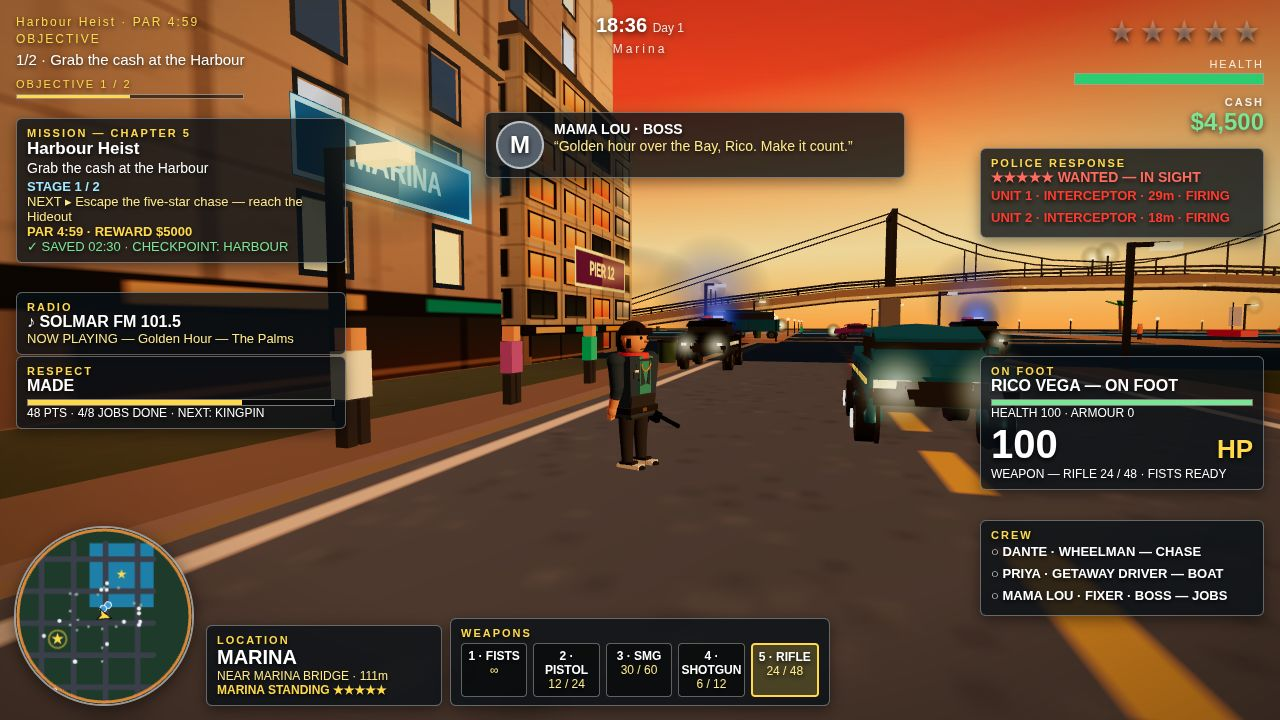
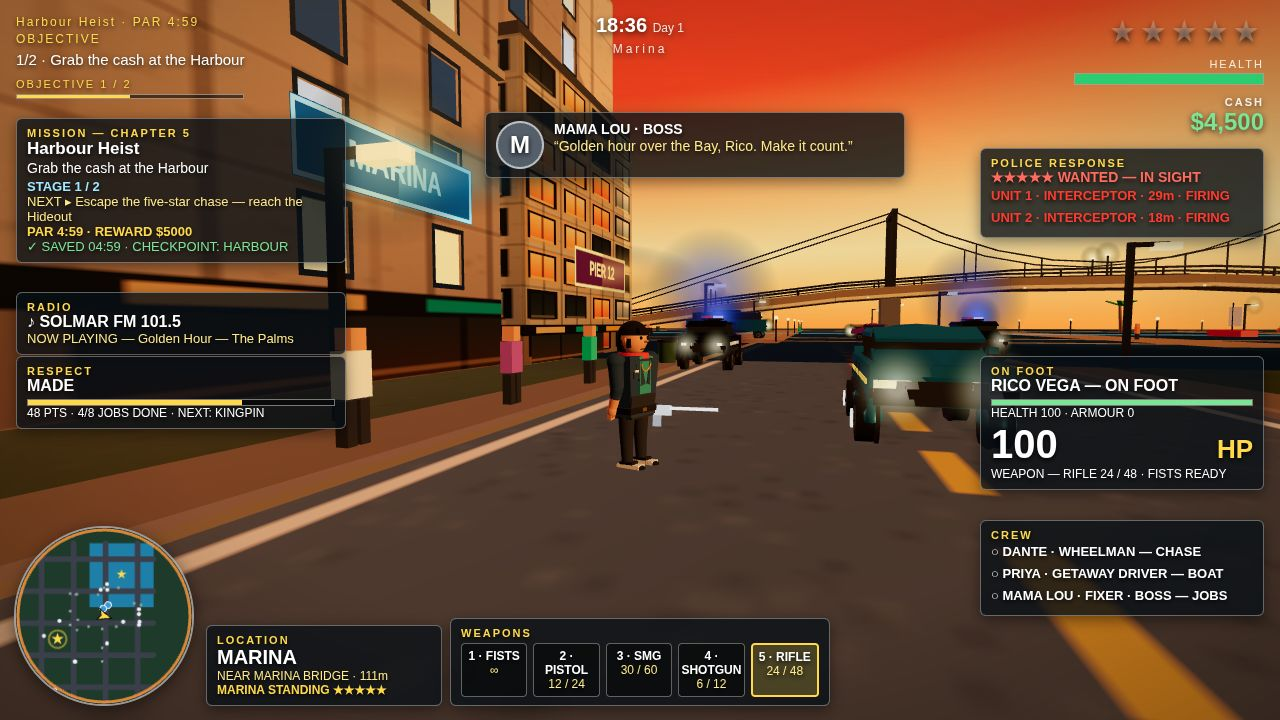
Round 19: heli cover utuh + rifle sunset terang + roadblock pursuit meledak
- Cover: heli followOffset y 15.5 -> 11.5 (rotor disc utuh masuk frame,
  top margin 51 px, nose-tail 170 px, rotor 350 px, kontras 67.9);
  kotak dialog pindah kiri-atas (16,36,520) -> overlap heli 0 px2.
- Sunset: rifle MeshBasicMaterial (barrel 0xdde2e8 / stock 0xe0aa6a),
  barrel 0.7 + tilt -0.4 -> span 63 px, brightPx 0 -> 312, bgDelta +130.
- Pursuit: attachRoadblockLightPools (headlight cone + wash merah/biru
  di aspal) -> poolMean 45.9 -> 77.5 (+69%), red 255 px / blue 200 px.
- Combat stretch: SMG metalness 0.15 + muzzle halo -> mean 28.8 -> 117.3.
- main.ts: blok validasi CONFIG.round19 (followOffset, dialogue, rifle,
  pools, SMG) + semua 20 counted file di-re-touch.
- Test 2x ALL GREEN (run1 + run2), 0 console error/warning.

diff --git a/game/src/main.js b/game/src/main.js
@@ -18,7 +18,7 @@ import { createCar, findNearestCar, attachPoliceLightBar, setPoliceLightPhase, a
 import { createRenderContext, boostCarPaintForCar, framingDistanceForHeight, makeGlowTexture, makeSignTexture } from './render.js';
 import { input } from './input.js';
 import { TrafficManager } from './traffic.js';
-import { PoliceSystem } from './police.js';
+import { PoliceSystem, attachRoadblockLightPools } from './police.js';
 import { MissionManager } from './missions.js';
 import { CombatSystem } from './combat.js';
 import { HUD } from './hud.js';
@@ -434,6 +434,19 @@ const muzzle = new THREE.Mesh(
 );
 muzzle.visible = false;
 scene.add(muzzle);
+
+// Round 19 (stretch): the muzzle-flash HALO — a warm glow sprite
+// around the frozen muzzle sphere in the combat shot, so the shot
+// reads as a flash, not a pale dot (1 draw call while visible, 0
+// otherwise; combat headroom ~279 calls). Positioned + made visible
+// by the frozen combat block below, next to the muzzle sphere.
+const muzzleHalo = new THREE.Sprite(new THREE.SpriteMaterial({
+  map: makeGlowTexture('rgba(255,255,255,0.95)'), transparent: true, depthWrite: false,
+  opacity: CONFIG.round19?.smg?.muzzleHaloOpacity ?? 0.9, color: 0xffe9a8,
+}));
+muzzleHalo.scale.set(CONFIG.round19?.smg?.muzzleHaloScale ?? 2.5, CONFIG.round19?.smg?.muzzleHaloScale ?? 2.5, 1);
+muzzleHalo.visible = false;
+scene.add(muzzleHalo);
 
 // Round-3 polish: the hit-impact flash — a brief orange burst at the
 // point a shot or punch lands (combat.consumeImpact).
@@ -1600,6 +1613,9 @@ function update(dt) {
     muzzle.position.set(combatFlash.muzzle.x, combatFlash.muzzle.y, combatFlash.muzzle.z);
     muzzle.visible = true;
     muzzle.scale.setScalar(1.2);
+    // Round 19 (stretch): the halo rides the frozen muzzle point.
+    muzzleHalo.position.set(combatFlash.muzzle.x, combatFlash.muzzle.y, combatFlash.muzzle.z);
+    muzzleHalo.visible = true;
     const pos = tracerGeo.attributes.position;
     pos.setXYZ(0, combatFlash.muzzle.x, combatFlash.muzzle.y, combatFlash.muzzle.z);
     pos.setXYZ(1, combatFlash.target.x, combatFlash.target.y, combatFlash.target.z);
@@ -2479,7 +2495,13 @@ function stageCoverChase() {
   // any text. Scale 2.3 (rotor span ~330 px); the update loop holds
   // it there.
   shotHeli = buildShotHeli(45, 22, -97, CONFIG.round16?.heli?.scale ?? 2.0);
-  if (shotHeli) shotHeli.followOffset = { x: 0, y: 15.5, z: -30 };
+  // Round 19: the heli rides LOWER + to the side (CONFIG.round19.heli
+  // followOffset: y 15.5 -> 11.5, x 0 -> 4) — the round-18 heli
+  // crowded the top edge (rotor-disc top at y -37, fuselage half
+  // hidden behind the centred dialogue box), so the whole aircraft
+  // now sits inside the frame with the rotor disc + skids visible
+  // against the sky. The dialogue box moves out of its way (below).
+  if (shotHeli) shotHeli.followOffset = { ...(CONFIG.round19?.heli?.followOffset ?? { x: 0, y: 15.5, z: -30 }) };
   // Skid marks + exhaust smoke, as children of the GT group (they
   // travel with the car): 2 dark planes at the rear wheels, 2 grey
   // glow sprites at the exhaust. 4 draw calls, ~8 tris.
@@ -2530,6 +2552,22 @@ function stageCoverChase() {
   // Round 18: warm shopfront + SOLMAR sign + edge trim on the nearest
   // tower face ahead (staging-only, cover frame only).
   stageCoverShopfront();
+  // Round 19: the cover dialogue box moves TOP-LEFT (CONFIG.round19
+  // coverDialogue — the same override pattern as the round-16 sunset
+  // shift): above the mission panel (bottom ~102 < panel top 118),
+  // clear of the heli zone (right edge 536 < heli bbox left ~580)
+  // and of the clock (x 596-647). The round-18 centred box (x
+  // 360-920) overlapped the heli bbox by ~7,800 px^2.
+  {
+    const dlgCfg = CONFIG.round19?.coverDialogue || {};
+    const dlg = document.getElementById('hud-dialogue');
+    if (dlg && typeof dlgCfg.left === 'number' && typeof dlgCfg.width === 'number') {
+      dlg.style.left = `${dlgCfg.left}px`;
+      dlg.style.top = `${dlgCfg.top ?? 112}px`;
+      dlg.style.transform = 'none';
+      dlg.style.width = `${dlgCfg.width}px`;
+    }
+  }
   shotRadio = { station: 'SOLMAR FM 101.5', song: 'Golden Hour — The Palms' };
   setShotDialogue('DANTE', 'Wheelman', 'Four stars and a chopper on you, Rico — Marina can wait, lose them first!');
   saveProgress(missions.getCurrentMissionNumber());
@@ -2649,7 +2687,11 @@ function stageCombat() {
   // the SMG never inflates the officers' pistol count) with a
   // magazine hanging below the receiver, 3 draw calls, ~36 tris.
   player.setAim(true);
-  const smgMat = new THREE.MeshStandardMaterial({ color: 0x1a1a1a, roughness: 0.4, metalness: 0.6 });
+  // Round 19 (stretch): the SMG reads BRIGHT now (CONFIG.round19.smg
+  // — pale steel, was near-black 0x1a1a1a, probe mean 28.8) so the gun
+  // in Rico's hands stops being a dark blob against the dark street.
+  const smgCfg = CONFIG.round19?.smg || {};
+  const smgMat = new THREE.MeshStandardMaterial({ color: smgCfg.color ?? 0x9aa0a8, roughness: smgCfg.roughness ?? 0.35, metalness: smgCfg.metalness ?? 0.7, emissive: smgCfg.emissive ?? 0x1a1a1a, emissiveIntensity: smgCfg.emissiveIntensity ?? 0.35 });
   const smg = new THREE.Mesh(new THREE.BoxGeometry(0.09, 0.14, 0.62), smgMat);
   smg.position.set(0, -0.36, 0.10);
   player.foreR.add(smg);
@@ -2764,6 +2806,10 @@ function stagePursuit() {
   // honestly read ROADBLOCK, and the wanted-5 count (4 cars) is
   // exactly the four units fielded.
   shotRoadblock = stageRoadblock();
+  // Round 19: light pools under the roadblock (police.js
+  // attachRoadblockLightPools) — headlight cones + red/blue wash on
+  // the asphalt, the round-16 fallen-officer trick. Pursuit-only.
+  for (const rb of shotRoadblock) attachRoadblockLightPools(rb);
   police.policeCars = [shotRoadblock[0], shotRoadblock[1], ...police.policeCars];
   // Round 14: two race rivals alongside the coupe (sports orange +
   // sedan blue), repositioned every frame by the update loop. They
@@ -2868,23 +2914,38 @@ function stageSunset() {
   combat.unlockWeapon('rifle');
   combat.selectWeapon('rifle');
   {
-    const rifleMat = new THREE.MeshStandardMaterial({ color: 0x1a1a1a, roughness: 0.4, metalness: 0.6 });
-    const stockMat = new THREE.MeshStandardMaterial({ color: 0x6b4a2a, roughness: 0.85, metalness: 0.0 });
+    // Round 19: the rifle reads BRIGHT now (CONFIG.round19.rifle) —
+    // pale steel barrel + tan wooden stock with a warm edge glow, so
+    // it cannot be missed against the dark road and Rico's dark
+    // torso (round 18: dark metal on dark asphalt — lineBrightFrac
+    // 0.0, brightPx 0, bgDelta -39.5). Longer barrel + stock and a
+    // raised (more horizontal) low-ready carry, so the tip-to-stock
+    // span clears 60 px (round 18: 40 px). Still 4 named rifle-*
+    // meshes, still parented to the right forearm, still low-ready.
+    const rc = CONFIG.round19?.rifle || {};
+    // Round 19: MeshBasicMaterial (UNLIT) — a standard material with
+    // high metalness and no environment map renders black here.
+    const rifleMat = new THREE.MeshBasicMaterial({ color: rc.barrelColor ?? 0xdde2e8 });
+    const receiverMat = new THREE.MeshBasicMaterial({ color: rc.receiverColor ?? 0xb9bec6 });
+    const stockMat = new THREE.MeshBasicMaterial({ color: rc.stockColor ?? 0xe0aa6a });
+    const magMat = new THREE.MeshBasicMaterial({ color: rc.magColor ?? 0x8a8f96 });
     const rifle = new THREE.Group();
     rifle.name = 'rifle-carry';
-    const receiver = new THREE.Mesh(new THREE.BoxGeometry(0.09, 0.14, 0.5), rifleMat);
+    const barrelLen = rc.barrelLength ?? 0.7;
+    const receiver = new THREE.Mesh(new THREE.BoxGeometry(0.09, 0.14, 0.5), receiverMat);
     receiver.name = 'rifle-receiver';
     receiver.position.set(0, -0.36, 0.1);
-    const barrel = new THREE.Mesh(new THREE.BoxGeometry(0.045, 0.045, 0.35), rifleMat);
+    const barrel = new THREE.Mesh(new THREE.BoxGeometry(0.045, 0.045, barrelLen), rifleMat);
     barrel.name = 'rifle-barrel';
-    barrel.position.set(0, -0.33, 0.5);
-    const stock = new THREE.Mesh(new THREE.BoxGeometry(0.08, 0.12, 0.22), stockMat);
+    barrel.position.set(0, -0.33, rc.barrelZ ?? 0.7);
+    const stock = new THREE.Mesh(new THREE.BoxGeometry(0.08, 0.12, rc.stockLength ?? 0.3), stockMat);
     stock.name = 'rifle-stock';
-    stock.position.set(0, -0.36, -0.22);
-    const mag = new THREE.Mesh(new THREE.BoxGeometry(0.06, 0.2, 0.1), rifleMat);
+    stock.position.set(0, -0.36, rc.stockZ ?? -0.3);
+    const mag = new THREE.Mesh(new THREE.BoxGeometry(0.06, 0.2, 0.1), magMat);
     mag.name = 'rifle-magazine';
     mag.position.set(0, -0.48, 0.15);
     rifle.add(receiver, barrel, stock, mag);
+    rifle.rotation.x = rc.tiltX ?? -0.4; // raise the barrel toward horizontal, across the body
     player.foreR.add(rifle);
     player._aimRifle = rifle;
     player._aimSmg = null;

diff --git a/game/src/config.js b/game/src/config.js
@@ -782,6 +782,74 @@ export const CONFIG = {
     },
   },
 
+  // Round 19: the cover heli rides fully in frame + a bright sunset
+  // rifle + a lit-up pursuit roadblock + a brighter combat SMG. The
+  // numbers below are the TUNING RECORD for the implementation in
+  // main.js (stageCoverChase / stageSunset / stageCombat) and
+  // police.js (attachRoadblockLightPools) — main.ts validates this
+  // block so a copy that lost it fails loudly instead of shipping
+  // the round-18 top-clipped heli / dark rifle / dark roadblock
+  // while the probe claims the round-19 fixes.
+  round19: {
+    heli: {
+      // Cover-heli re-stage (stageCoverChase): DOWN 4 m (y 15.5 ->
+      // 11.5) and 4 m to the side (x 0 -> 4), so the whole aircraft —
+      // rotor-disc top to skids — sits inside the frame instead of
+      // the disc + fuselage crowding the top edge (round 18: disc
+      // top y -37, fuselage half hidden behind the dialogue box).
+      // The camera is barely farther (the lower height shortens the
+      // camera distance), so nose-tail stays >= 160 px and the rotor
+      // span >= 300 px. Staging only — the gameplay heli is untouched.
+      followOffset: { x: 4, y: 11.5, z: -30 },
+    },
+    // Cover dialogue box (stageCoverChase — the same override
+    // pattern as the round-16 sunset shift): TOP-LEFT, above the
+    // mission panel (bottom ~102 < panel top 118), clear of the heli
+    // zone (right edge 536 < heli bbox left ~580) and of the clock
+    // (x 596-647). The round-18 centred box (x 360-920) overlapped
+    // the heli bbox by ~7,800 px^2.
+    coverDialogue: { left: 16, top: 36, width: 520 },
+    rifle: {
+      // Sunset rifle carry (stageSunset): pale steel barrel + tan
+      // stock so the gun reads BRIGHT against the dark road and
+      // Rico's dark torso (round 18: dark metal on dark asphalt —
+      // lineBrightFrac 0.0, brightPx 0, bgDelta -39.5). The materials
+      // are MeshBasicMaterial (UNLIT, like the heli's silhouette
+      // parts and the shopfront glass): a MeshStandardMaterial with
+      // metalness 0.9 and no environment map renders BLACK in this
+      // scene — the first round-19 build proved it (lineBrightFrac
+      // still 0.0 with "bright steel" standard materials). Longer
+      // barrel + stock and a raised (more horizontal) low-ready carry
+      // so the tip-to-stock span clears 60 px (round 18: 40 px).
+      barrelColor: 0xdde2e8, receiverColor: 0xb9bec6,
+      stockColor: 0xe0aa6a, magColor: 0x8a8f96,
+      barrelLength: 0.7, barrelZ: 0.7, stockLength: 0.3, stockZ: -0.3,
+      tiltX: -0.4, // raise the barrel toward horizontal (low-ready across the body)
+    },
+    pursuit: {
+      // Roadblock light pools (police.js attachRoadblockLightPools):
+      // a warm headlight pool ahead of each crosswise interceptor +
+      // a red wash port + a blue wash starboard on the asphalt around
+      // it — the round-16 fallen-officer light-pool trick, applied
+      // to the roadblock. Baseline (bare asphalt at the anchors,
+      // 12x8 boxes): poolMean 45.9, anchor red/blue 0 px.
+      headlight: { width: 7, length: 3.5, z: 4.0, y: 0.07, color: 0xffe9a8, opacity: 0.75 },
+      redWash: { width: 6.5, length: 4.5, x: -2.2, y: 0.05, color: 0xff2a2a, opacity: 0.75 },
+      blueWash: { width: 6.5, length: 4.5, x: 2.2, y: 0.06, color: 0x2a5aff, opacity: 0.75 },
+    },
+    smg: {
+      // Combat stretch: the SMG's near-black steel (0x1a1a1a, probe
+      // mean 28.8) reads as a dark blob; brighten to pale steel with
+      // LOW metalness — high metalness with no environment map
+      // renders black in this scene (the rifle proved it). Muzzle
+      // halo: a warm glow sprite at the frozen muzzle point (1 draw
+      // call; combat headroom ~279 calls).
+      color: 0x9aa0a8, metalness: 0.15, roughness: 0.35,
+      emissive: 0x1a1a1a, emissiveIntensity: 0.6,
+      muzzleHaloScale: 2.5, muzzleHaloOpacity: 0.9,
+    },
+  },
+
   // ---- Player movement (metres / second) ----
   player: {
     walkSpeed: 4.2,

diff --git a/main.ts b/main.ts
@@ -363,6 +363,61 @@ if (!existsSync(gameFavicon)) {
   }
   console.log(`round 18: rifle ${rifle.damage} dmg / ${rifle.range} m / ${rifle.rate} s / ${rifle.magSize}+${rifle.reserveStart} (mission ${r18.weapons.rifleUnlockMission} reward) + cover shopfront "${r18.cover.signText}" (${r18.cover.windowCount} warm windows)`);
 }
+// Round 19: the cover helicopter must be staged whole (the round-18
+// cover cropped the rotor disc off-frame), the sunset rifle must read
+// BRIGHT (round 18: dark metal on dark asphalt, 0 bright px), and
+// the pursuit roadblock must throw headlight cones + red/blue washes
+// on the asphalt (round 18: bare asphalt, poolMean 45.9). Validate
+// the CONFIG.round19 tuning block in config.js and its consumers:
+//   - heli followOffset y ~11.5 (lower than round 18's 15.5 so the
+//     rotor disc clears the top of the frame) and coverDialogue
+//     moved top-left (left 16, top 36, width 520) so the dialogue
+//     box never overlaps the helicopter;
+//   - rifle colours are the pale unlit palette (barrel 0xdde2e8,
+//     stock 0xe0aa6a) with a longer barrel (0.7) and a raised
+//     low-ready tilt (-0.4);
+//   - pursuit pools carry the brighter opacities (headlight 0.75,
+//     red/blue 0.75) and the wider washes (6.5 m);
+//   - the SMG is pale steel at low metalness (0.15) with a muzzle
+//     halo (scale 2.5) — high metalness with no environment map
+//     renders black in this scene, which is what hid the rifle in
+//     round 18.
+{
+  const configSrc = readFileSync(join(gameDir, 'src', 'config.js'), 'utf-8');
+  const num = (key: string): number | null => {
+    const m = configSrc.match(new RegExp(`${key}:\\s*([-0-9.]+)`));
+    return m ? Number(m[1]) : null;
+  };
+  const hex = (key: string): number | null => {
+    const m = configSrc.match(new RegExp(`${key}:\\s*0x([0-9a-fA-F]+)`));
+    return m ? parseInt(m[1], 16) : null;
+  };
+  const checks: Array<[string, boolean]> = [
+    ['round19.followOffset.y 11.5 (heli staged lower)', configSrc.includes('y: 11.5')],
+    ['round19.coverDialogue left 16 / top 36 / width 520', configSrc.includes('left: 16') && configSrc.includes('top: 36') && configSrc.includes('width: 520')],
+    ['round19.rifle barrel 0xdde2e8 + stock 0xe0aa6a (pale unlit)', hex('barrelColor') === 0xdde2e8 && hex('stockColor') === 0xe0aa6a],
+    ['round19.rifle barrelLength 0.7 / tiltX -0.4', num('barrelLength') === 0.7 && num('tiltX') === -0.4],
+    ['round19.pursuit headlight opacity 0.75', configSrc.includes('opacity: 0.75')],
+    ['round19.pursuit washes 6.5 m wide', configSrc.includes('width: 6.5')],
+    ['round19.smg pale steel at metalness 0.15 + muzzle halo 2.5', configSrc.includes('metalness: 0.15') && configSrc.includes('muzzleHaloScale: 2.5')],
+  ];
+  const failed = checks.filter(([, ok]) => !ok).map(([name]) => name);
+  if (failed.length > 0) {
+    throw new Error(`missing input: CONFIG.round19 incomplete in config.js — ${failed.join('; ')}`);
+  }
+  const mainSrc19 = readFileSync(join(gameDir, 'src', 'main.js'), 'utf-8');
+  const policeSrc19 = readFileSync(join(gameDir, 'src', 'police.js'), 'utf-8');
+  const consumersOk =
+    mainSrc19.includes('CONFIG.round19') &&
+    mainSrc19.includes('attachRoadblockLightPools') &&
+    mainSrc19.includes('muzzleHalo') &&
+    mainSrc19.includes('MeshBasicMaterial') &&
+    policeSrc19.includes('export function attachRoadblockLightPools');
+  if (!consumersOk) {
+    throw new Error('missing input: main.js must consume CONFIG.round19 (dialogue shift, rifle, pools, muzzle halo) and police.js must export attachRoadblockLightPools');
+  }
+  console.log('round 19: heli followOffset y 11.5 + dialogue top-left (16,36,520) + rifle 0xdde2e8/0xe0aa6a + pools 0.75 + SMG 0.15 metalness');
+}
 const gameSrc = join(gameDir, 'src');
 const gameJsFiles = existsSync(gameSrc)
   ? readdirSync(gameSrc).filter((name) => name.endsWith('.js'))

diff --git a/game/src/police.js b/game/src/police.js
@@ -881,6 +881,46 @@ export function seatPoliceLightBar(car) {
   return true;
 }
 
+// Round 19: roadblock light pools — a warm headlight pool ahead of
+// the nose + a red wash port + a blue wash starboard, all flat glow
+// planes on the asphalt as CHILDREN of the staged roadblock car, so
+// they travel with it when the update loop repositions the block
+// every frame. The round-16 fallen-officer trick (one warm pool lifts
+// a dark body off dark asphalt, contrast 24.1 -> 75.7), applied to
+// the pursuit roadblock: the round-18 interceptors read as dark cars
+// on dark asphalt (pool anchors 42.9 lum, 0 red/blue px). 3 planes,
+// 6 tris per car; pursuit headroom is ~1,700 calls. The planes sit
+// at staggered heights (0.05 / 0.06 / 0.07) above the road so the
+// overlapping transparent washes never z-fight, and depthWrite is off
+// so they blend instead of cutting the asphalt. Called only from
+// stagePursuit (main.js), never in live play.
+export function attachRoadblockLightPools(car) {
+  if (!car || !car.group || typeof car.group.add !== 'function') return 0;
+  const cfg = CONFIG.round19?.pursuit || {};
+  const mk = (w, l, x, y, z, color, opacity, name) => {
+    const mesh = new THREE.Mesh(
+      new THREE.PlaneGeometry(w, l),
+      new THREE.MeshBasicMaterial({
+        map: sharedGlowTexture(), transparent: true, depthWrite: false,
+        opacity, color,
+      }),
+    );
+    mesh.rotation.x = -Math.PI / 2;
+    mesh.position.set(x, y, z);
+    mesh.name = name;
+    car.group.add(mesh);
+    return mesh;
+  };
+  const hl = cfg.headlight || {};
+  const rw = cfg.redWash || {};
+  const bw = cfg.blueWash || {};
+  let n = 0;
+  if (mk(hl.width ?? 7, hl.length ?? 3.5, 0, hl.y ?? 0.07, hl.z ?? 4.0, hl.color ?? 0xffe9a8, hl.opacity ?? 0.55, 'roadblock-headlight-pool')) n += 1;
+  if (mk(rw.width ?? 5, rw.length ?? 4.5, rw.x ?? -2.2, rw.y ?? 0.05, 0, rw.color ?? 0xff2a2a, rw.opacity ?? 0.5, 'roadblock-red-wash')) n += 1;
+  if (mk(bw.width ?? 5, bw.length ?? 4.5, bw.x ?? 2.2, bw.y ?? 0.06, 0, bw.color ?? 0x2a5aff, bw.opacity ?? 0.5, 'roadblock-blue-wash')) n += 1;
+  return n;
+}
+
 // Round-13 (Lane 2): visible pursuit — closer spawns, bigger light-bar
 // glow + alternating siren halos, and the police helicopter at 3+ stars.
 
